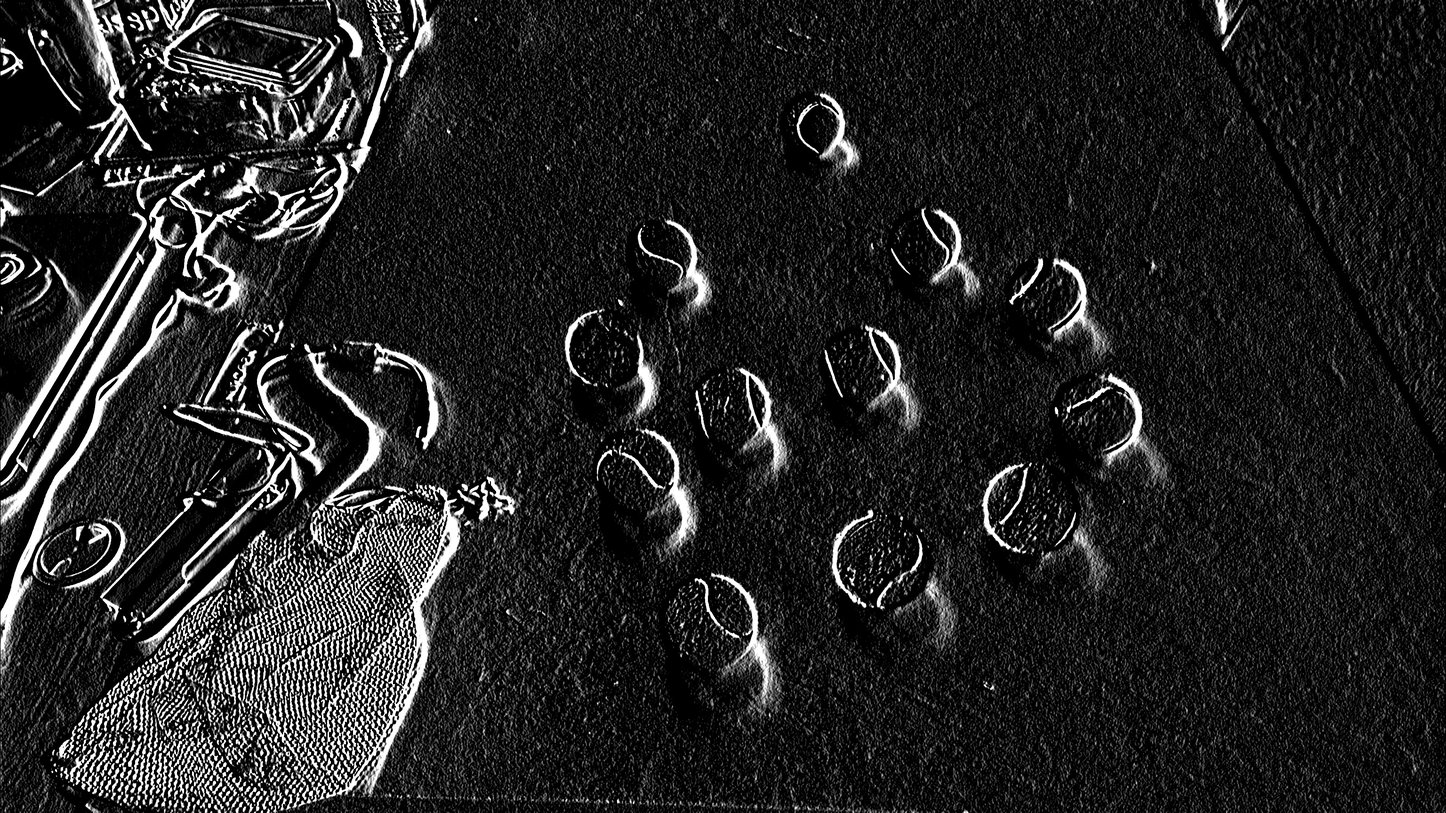
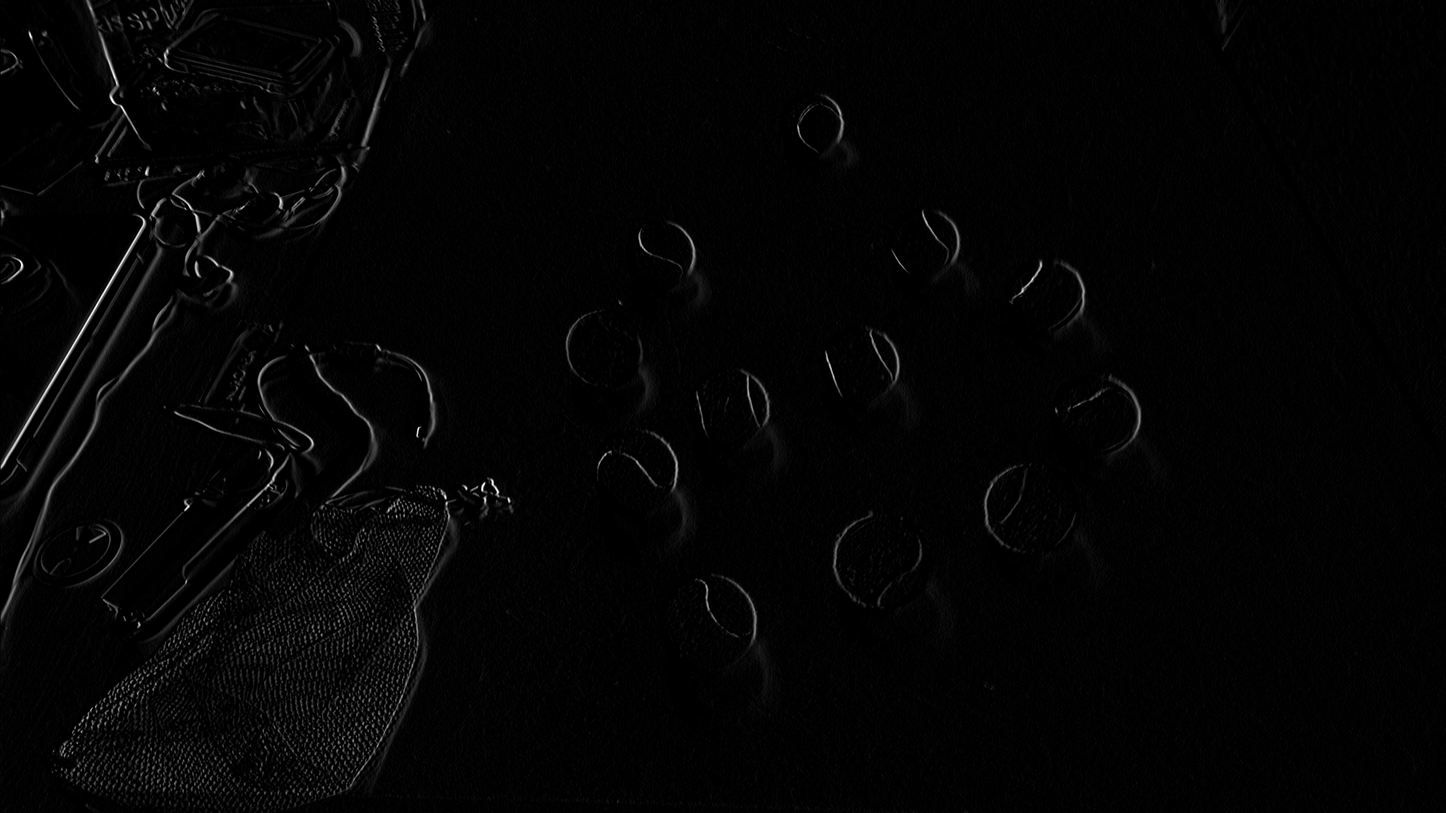
Non-Maximum Suppression Functional
Found faults and NMS is now working properly

diff --git a/EdgeDetection/main.cpp b/EdgeDetection/main.cpp
@@ -22,8 +22,8 @@ int main() {
 
 	GaussianBlur(image, imageGaussian, Size(5, 5), 0, 0);
 	imageGaussian.convertTo(imageGaussian, CV_32F);
-	Sobel(imageGaussian, imageX, -1, 1, 0, 5);
-	Sobel(imageGaussian, imageY, -1, 0, 1, 5);
+	Sobel(imageGaussian, imageX, -1, 1, 0, 3);
+	Sobel(imageGaussian, imageY, -1, 0, 1, 3);
 
 	imageX.convertTo(imageX, CV_32F);
 	imageY.convertTo(imageY, CV_32F);
@@ -46,37 +46,32 @@ int main() {
 		for (x = 1; x < imageG.cols - 1; x++) {
 			float g = imageG.at<float>(y, x);
 			float t = imageT.at<float>(y, x);
-			float i = g;
 			if (g > 0) {
 				if ((((t <= 22.5)) || ((t > 337.5))) || ((t > 157.5) && (t <= 202.5))) {
-					if ((g >= imageG.at<float>(y, x - 1)) || (g >= imageG.at<float>(y, x + 1))) {
-						imageS.at<float>(y, x) = i;
-					}
-					else {
+					if ((g > imageG.at<float>(y, x - 1)) && (g > imageG.at<float>(y, x + 1))) {
+						imageS.at<float>(y, x) = g;
+					} else {
 						imageS.at<float>(y, x) = 0;
 					}
 				}
 				else if (((t > 22.5) && (t <= 67.5)) || ((t > 202.5) && (t <= 247.5))) {
-					if ((g >= imageG.at<float>(y - 1, x + 1)) || (g >= imageG.at<float>(y + 1, x - 1))) {
-						imageS.at<float>(y, x) = i;
-					}
-					else {
+					if ((g > imageG.at<float>(y - 1, x + 1)) && (g > imageG.at<float>(y + 1, x - 1))) {
+						imageS.at<float>(y, x) = g;
+					} else {
 						imageS.at<float>(y, x) = 0;
 					}
 				}
 				else if (((t > 67.5) && (t <= 112.5)) || ((t > 247.5) && (t <= 292.5))) {
-					if ((g >= imageG.at<float>(y - 1, x)) || (g >= imageG.at<float>(y + 1, x))) {
-						imageS.at<float>(y, x) = i;
-					}
-					else {
+					if ((g > imageG.at<float>(y - 1, x)) && (g > imageG.at<float>(y + 1, x))) {
+						imageS.at<float>(y, x) = g;
+					} else {
 						imageS.at<float>(y, x) = 0;
 					}
 				}
 				else if (((t > 112.5) && (t <= 157.5)) || ((t > 292.5) && (t <= 337.5))) {
-					if ((g >= imageG.at<float>(y - 1, x - 1)) || (g >= imageG.at<float>(y + 1, x + 1))) {
-						imageS.at<float>(y, x) = i;
-					}
-					else {
+					if ((g > imageG.at<float>(y - 1, x - 1)) && (g > imageG.at<float>(y + 1, x + 1))) {
+						imageS.at<float>(y, x) = g;
+					} else {
 						imageS.at<float>(y, x) = 0;
 					}
 				}
